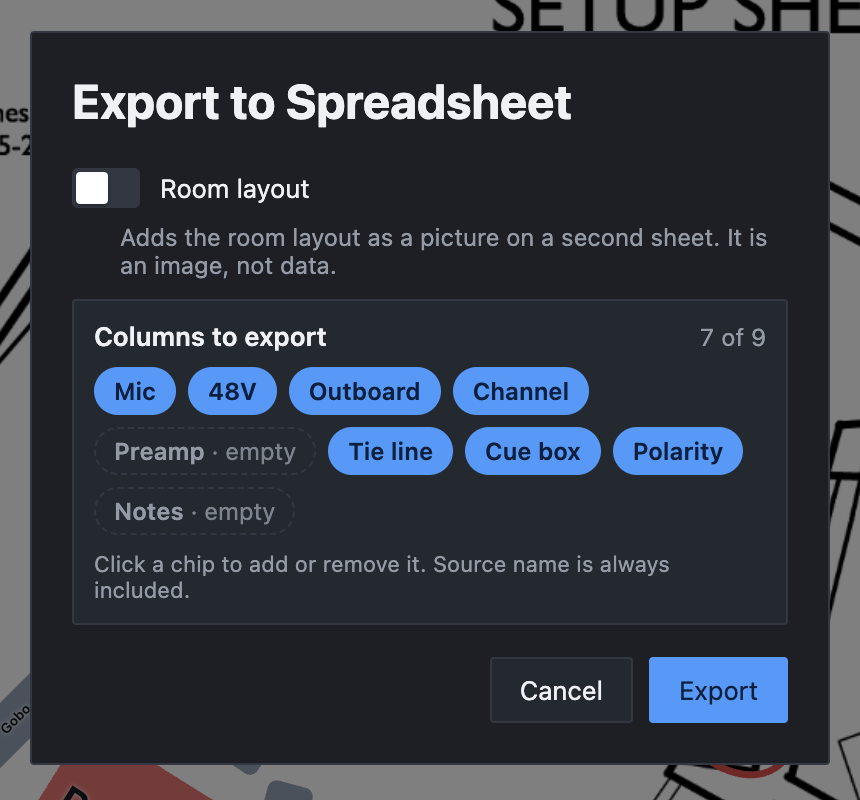
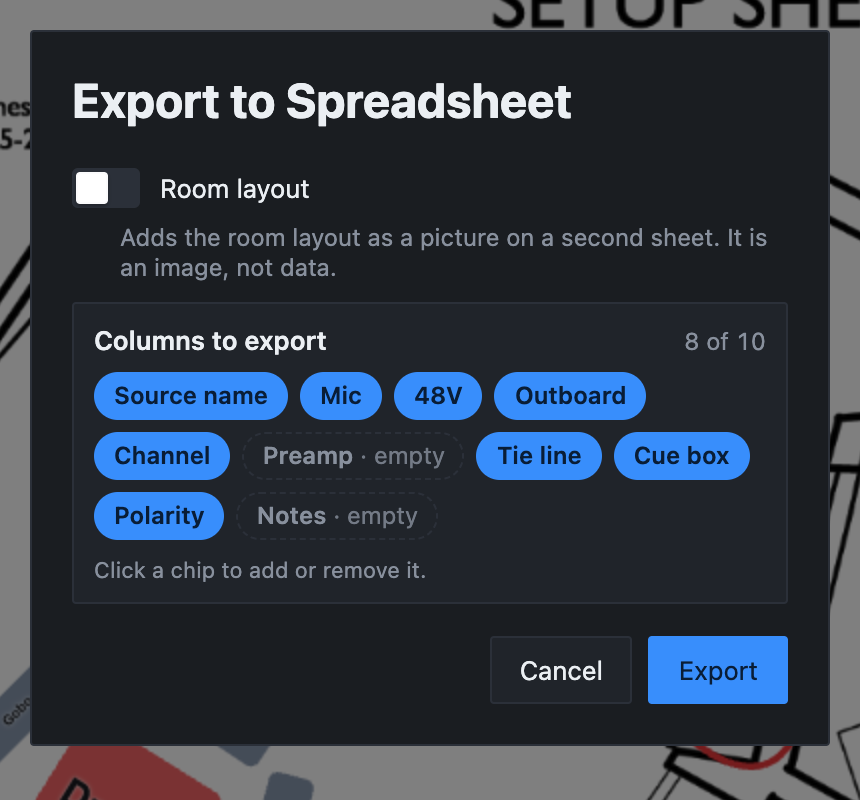
Manual for 1.21.0: labeled tie lines, movable and hideable Source name

diff --git a/manual-exporting.html b/manual-exporting.html
@@ -116,7 +116,7 @@
 
     <h2 id="pdf-options">The PDF options</h2>
     <figure class="manual-shot is-dialog">
-      <img src="assets/manual/quick-start-export-pdf.png" alt="The Export to PDF dialog. A PDF style settings link sits at the top right. Below are switches for Setup sheet, Room layout and Colored, a Columns to export box showing 7 of 9 with Preamp and Notes marked empty, and Orientation and Density menus set to Portrait and Normal, with Cancel and Export buttons." loading="lazy" />
+      <img src="assets/manual/quick-start-export-pdf.png" alt="The Export to PDF dialog. A PDF style settings link sits at the top right. Below are switches for Setup sheet, Room layout and Colored, a Columns to export box showing 8 of 10, from Source name through Notes, with Preamp and Notes marked empty, and Orientation and Density menus set to Portrait and Normal, with Cancel and Export buttons." loading="lazy" />
     </figure>
 
     <h3>Setup sheet and Room layout</h3>
@@ -131,7 +131,7 @@
     <p>With <span class="manual-ui">Colored</span> on, rows are tinted with the colors you gave them, and blocks on the floor plan keep their colors. Turn it off when you're printing in black and white. The app then makes the pages read well in gray, as described in <a href="#black-and-white">Black-and-white printing</a>.</p>
 
     <h3>Columns to export</h3>
-    <p>Each chip is one column of the sheet. A filled chip goes in the PDF; a dashed one is left out. The count at the top right, such as <span class="manual-ui">7 of 9</span>, tells you how many are going in. <span class="manual-ui">Source name</span> is always included, so it has no chip.</p>
+    <p>Each chip is one column of the sheet. A filled chip goes in the PDF; a dashed one is left out. The count at the top right, such as <span class="manual-ui">8 of 10</span>, tells you how many are going in.</p>
     <ul>
       <li>A column starts off when no row uses it (marked <span class="manual-ui">empty</span>) or when it's hidden in the editor (marked <span class="manual-ui">hidden</span>). That's why blank columns don't waste space on the page.</li>
       <li>Click any chip to include or leave out that column. You can include a hidden column without showing it again in the editor.</li>
@@ -170,7 +170,7 @@
       <li><strong>✓</strong> in the 48V column means phantom power is on.</li>
       <li><strong>Ø</strong> in the Polarity column means polarity is flipped.</li>
       <li><strong>A brace</strong> in the left margin joins the two rows of a stereo pair.</li>
-      <li><strong>"!"</strong> before a tie line number means another row uses the same tie line. Fix it before the session.</li>
+      <li><strong>"!"</strong> before a tie line means another row uses the same one. Fix it before the session.</li>
       <li><strong>Row tints</strong> appear when Colored is on. They're printed pale, so black text stays easy to read.</li>
     </ul>
     <p>The columns appear in the same order as in the editor. Their print headings are slightly longer than on screen, such as <em>Microphone</em> for Mic.</p>
@@ -199,7 +199,7 @@
     <h2 id="export-spreadsheet">Exporting a spreadsheet</h2>
     <p>Press <kbd>⌘</kbd><kbd>⇧</kbd><kbd>E</kbd>, or choose <span class="manual-ui">File → Export Spreadsheet…</span>, to save the sheet as an Excel workbook (.xlsx). It opens in Excel, Numbers and Google Sheets.</p>
     <figure class="manual-shot is-dialog">
-      <img src="assets/manual/export-spreadsheet.png" alt="The Export to Spreadsheet dialog with a Room layout switch turned off and its description, a Columns to export box showing 7 of 9 with Preamp and Notes marked empty, and Cancel and Export buttons." loading="lazy" />
+      <img src="assets/manual/export-spreadsheet.png" alt="The Export to Spreadsheet dialog with a Room layout switch turned off and its description, a Columns to export box showing 8 of 10, from Source name through Notes, with Preamp and Notes marked empty, and Cancel and Export buttons." loading="lazy" />
     </figure>
     <ul>
       <li><strong><span class="manual-ui">Room layout</span></strong> adds the floor plan as a picture on a second sheet. As the dialog says, it's an image, not data. The switch only appears when the setup has a room layout, starts off, and remembers your choice.</li>
@@ -213,7 +213,7 @@
     <h3>What's in the file</h3>
     <ul>
       <li>One sheet named after the setup, holding just the table. There's no title, details line or session notes.</li>
-      <li>Source name first, then your chosen columns in the editor's order.</li>
+      <li>Your chosen columns, in the editor's order.</li>
       <li>Each outboard column stays separate, headed <em>Outboard</em>, <em>Outboard 2</em> and so on.</li>
       <li>48V and Polarity read <em>Yes</em> when ticked.</li>
       <li>A bold header row that stays in place as you scroll.</li>

diff --git a/manual-power-features.html b/manual-power-features.html
@@ -153,7 +153,7 @@
     <h3>While they're linked</h3>
     <ul>
       <li>Changes to the mic, preamp, outboard, 48V or polarity copy to the other row.</li>
-      <li>Channel and tie line follow an N and N+1 pattern. Type 9 in the top row's channel and the bottom row gets 10.</li>
+      <li>Channel and tie line follow an N and N+1 pattern. Type 9 in the top row's channel and the bottom row gets 10. A labeled tie line counts up from its number, so <em>PB1</em> gives <em>PB2</em>. One with no number at the end is left for you to fill in.</li>
       <li>A cue box with a plain number follows the same pattern. A text cue such as <em>1-2</em> is copied as it is.</li>
       <li>Dragging either row moves both.</li>
     </ul>
@@ -162,9 +162,9 @@
     <p>Never use pairs? Hide the <span class="manual-ui">Stereo Link</span> column in the Columns menu (below).</p>
 
     <h2 id="columns">Columns</h2>
-    <p>Click <span class="manual-ui">Columns</span> in the toolbar to choose what this setup shows. Each column has a switch, and you drag a column up or down the list to move it across the sheet. <span class="manual-ui">Source name</span> is always shown and always first. <span class="manual-ui">Stereo Link</span> stays at the far left, but you can hide it.</p>
+    <p>Click <span class="manual-ui">Columns</span> in the toolbar to choose what this setup shows. Each column has a switch, and you drag a column up or down the list to move it across the sheet. <span class="manual-ui">Stereo Link</span> stays at the far left, but you can hide it.</p>
     <figure class="manual-shot">
-      <img src="assets/manual/faster-columns.png" alt="The Columns menu open in Table Mode, listing Source name marked always, then Stereo Link, Mic, 48V, Outboard, Channel, Preamp, Tie line, Cue box, Polarity and Notes with switches and drag handles, and a Reset to my defaults button at the bottom." loading="lazy" />
+      <img src="assets/manual/faster-columns.png" alt="The Columns menu open in Table Mode, listing Stereo Link with a lock, then Source name, Mic, 48V, Outboard, Channel, Preamp, Tie line, Cue box, Polarity and Notes with switches and drag handles, and a Reset to my defaults button at the bottom." loading="lazy" />
     </figure>
     <ul>
       <li>Each setup keeps its own choices. Templates and duplicates take them along.</li>

diff --git a/manual-table-mode.html b/manual-table-mode.html
@@ -167,7 +167,7 @@
       <dt>Channel</dt>
       <dd>The console channel, as a whole number from 1 up.</dd>
       <dt>Tie line</dt>
-      <dd>The tie line or wall-box input, also a whole number. Two rows with the same tie line get a warning (see <a href="#warnings">Warnings</a>).</dd>
+      <dd>The tie line or wall-box input. It takes a number, or a label such as <em>PB1</em> if that's how your patch bay names its lines. Two rows with the same tie line get a warning (see <a href="#warnings">Warnings</a>).</dd>
       <dt>Cue box</dt>
       <dd>Free text, so a stereo cue like <em>1-2</em> works as well as a single number.</dd>
       <dt>Polarity</dt>
@@ -251,7 +251,7 @@
     <p>Two kinds of yellow warning can appear inside a cell.</p>
     <dl>
       <dt><span class="manual-ui">duplicate tie line</span></dt>
-      <dd>Two or more rows share the same tie line number. The warning shows on every row involved. Change one of the numbers and it goes away. If you export anyway, the PDF puts a "!" in front of those tie line numbers so the clash is easy to spot on paper.</dd>
+      <dd>Two or more rows share the same tie line. Capitals and spaces don't count, so <em>pb1</em> and <em>PB1</em> clash. The warning shows on every row involved. Change one of them and it goes away. If you export anyway, the PDF puts a "!" in front of those tie lines so the clash is easy to spot on paper.</dd>
       <dt><span class="manual-ui">Preset expected: …</span></dt>
       <dd>You loaded a channel preset that names gear this studio doesn't have, such as <em>Preset expected: U 47 FET</em>. The row is added with that cell left empty. Pick something from the picker and the warning clears.</dd>
     </dl>

diff --git a/manual-settings.html b/manual-settings.html
@@ -121,13 +121,12 @@
 
     <h2 id="columns">Columns</h2>
     <figure class="manual-shot">
-      <img src="assets/manual/settings-columns.png" alt="Settings, Columns tab: a list of columns with drag handles and switches, from Source name and Stereo Link at the top through Mic, 48V, Outboard, Channel, Preamp, Tie line, Cue box, Polarity and Notes." loading="lazy" />
+      <img src="assets/manual/settings-columns.png" alt="Settings, Columns tab: a list of columns with drag handles and switches, from Stereo Link with a lock at the top, then Source name, Mic, 48V, Outboard, Channel, Preamp, Tie line, Cue box, Polarity and Notes." loading="lazy" />
     </figure>
     <p>This tab sets the columns that <strong>new</strong> setups start with. It doesn't change any setup you already have.</p>
     <ul>
       <li>Turn a column's switch off to hide it in new setups.</li>
       <li>Drag a column by its handle to change the left-to-right order.</li>
-      <li><span class="manual-ui">Source name</span> is always shown and always first.</li>
       <li><span class="manual-ui">Stereo Link</span> always sits at the far left, but you can switch it off.</li>
     </ul>
     <p>To change the columns of a setup that already exists, use the <span class="manual-ui">Columns</span> menu above its table. That menu's <span class="manual-ui">Reset to my defaults</span> button applies what you set here. <a href="manual-power-features.html#columns">Part 7</a> covers the menu.</p>

diff --git a/manual-help.html b/manual-help.html
@@ -203,7 +203,7 @@
       <dd>Anything you're recording on its own channel, such as Kick In or Lead Vocal. Each source is one row of the setup sheet.</dd>
 
       <dt>Tie line</dt>
-      <dd>The numbered line that carries a signal from the live room to the control room. Two rows sharing one gets a warning.</dd>
+      <dd>The line that carries a signal from the live room to the control room, usually numbered. Two rows sharing one gets a warning.</dd>
 
       <dt>Cue box</dt>
       <dd>The headphone mix box a musician plugs into. The Cue box cell takes any text, such as 3 or 1-2.</dd>
